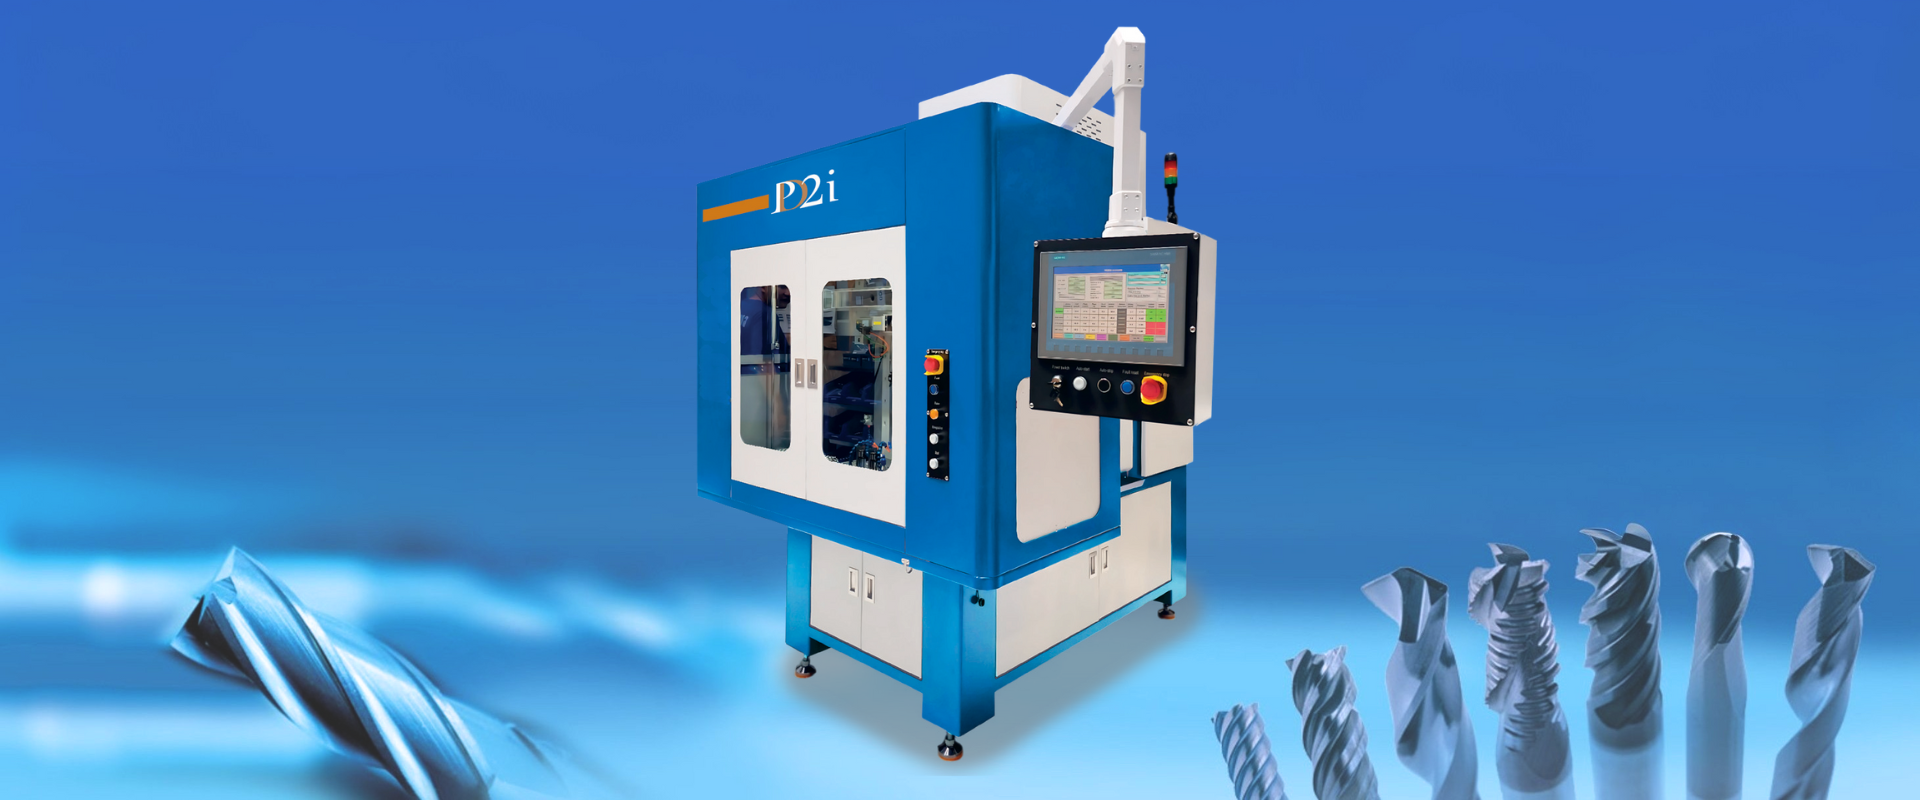
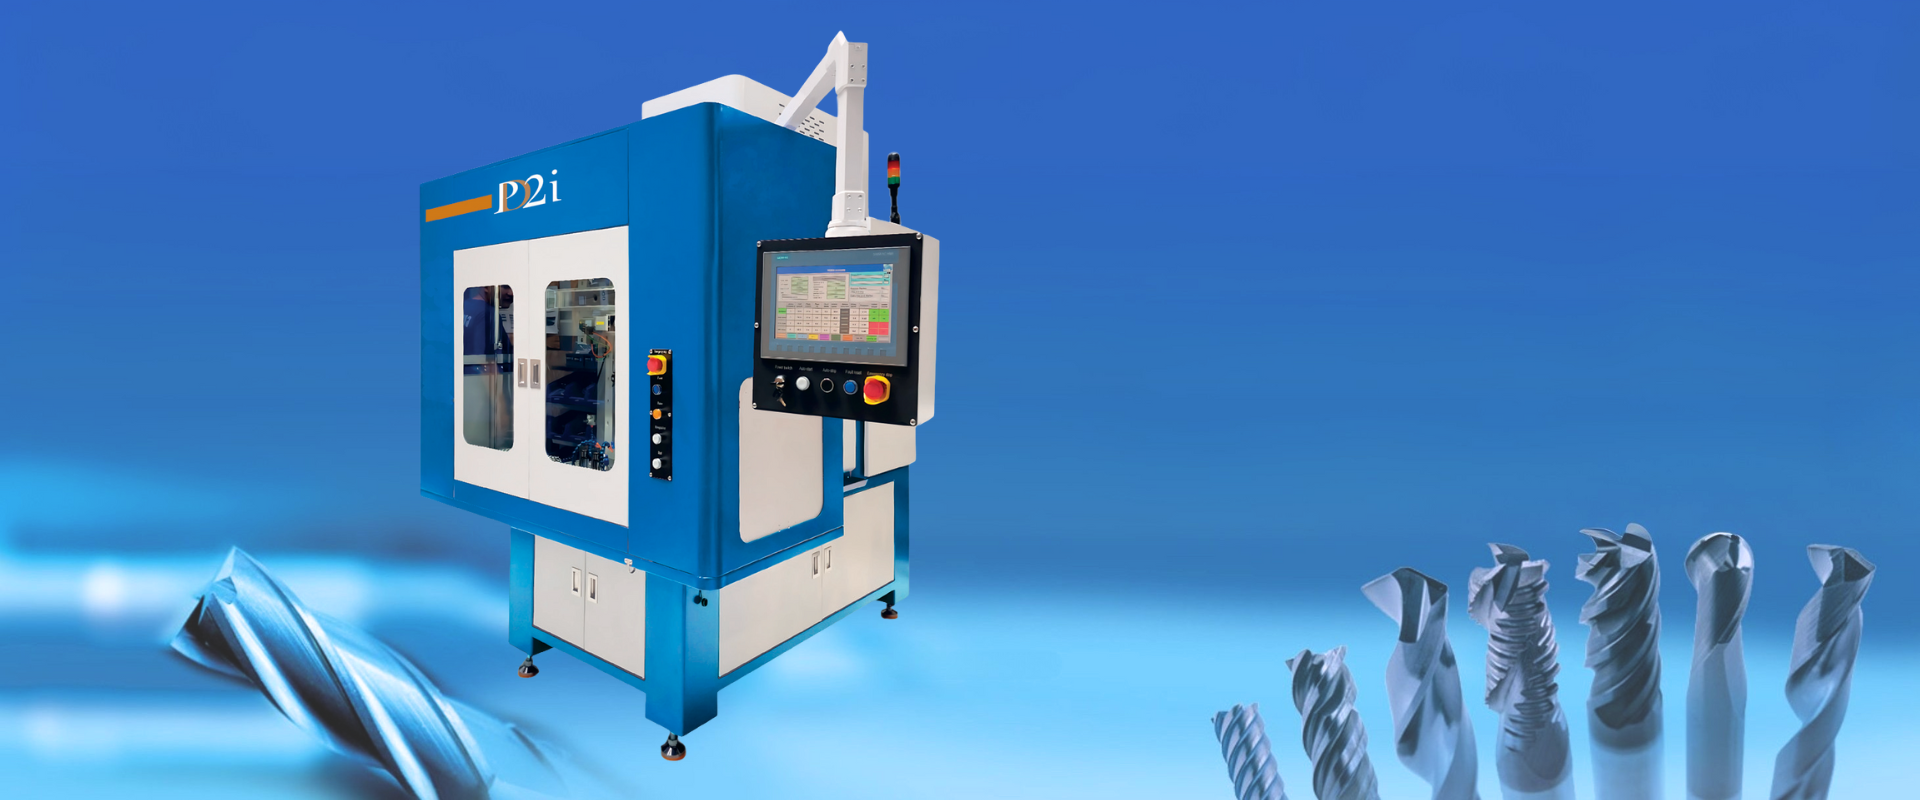
feat :home page modif

Changed region(s): [[0.2188, 0.0312, 0.6562, 0.9688]]

diff --git a/components/Carousel.js b/components/Carousel.js
@@ -65,9 +65,10 @@ class Carousel {
     generateSlidesHTML() {
         return this.options.slides.map((slide, index) => {
             // Pour le 2ème slide (index 1 = Im2.png), alignement à droite
+            // Pour le 3ème slide (index 2 = Im3.png), alignement à droite
             // Pour le 4ème slide (index 3 = Im4.png), alignement à gauche
             const isLeftAligned = index === 3;
-            const isRightAligned = index === 1;
+            const isRightAligned = index === 1 || index === 2;
             
             let containerClasses, textClasses;
             
